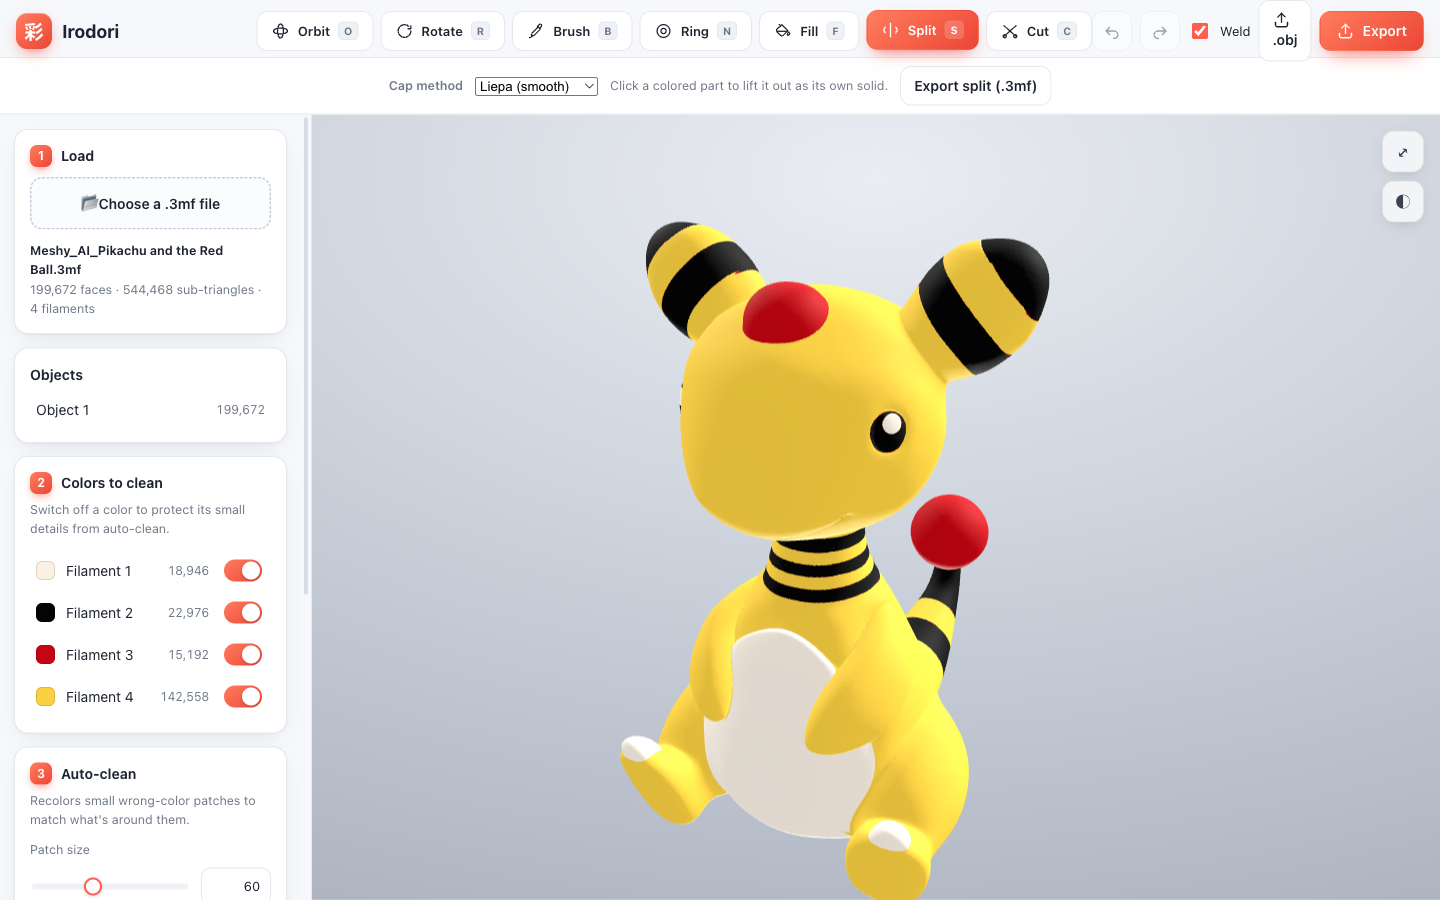
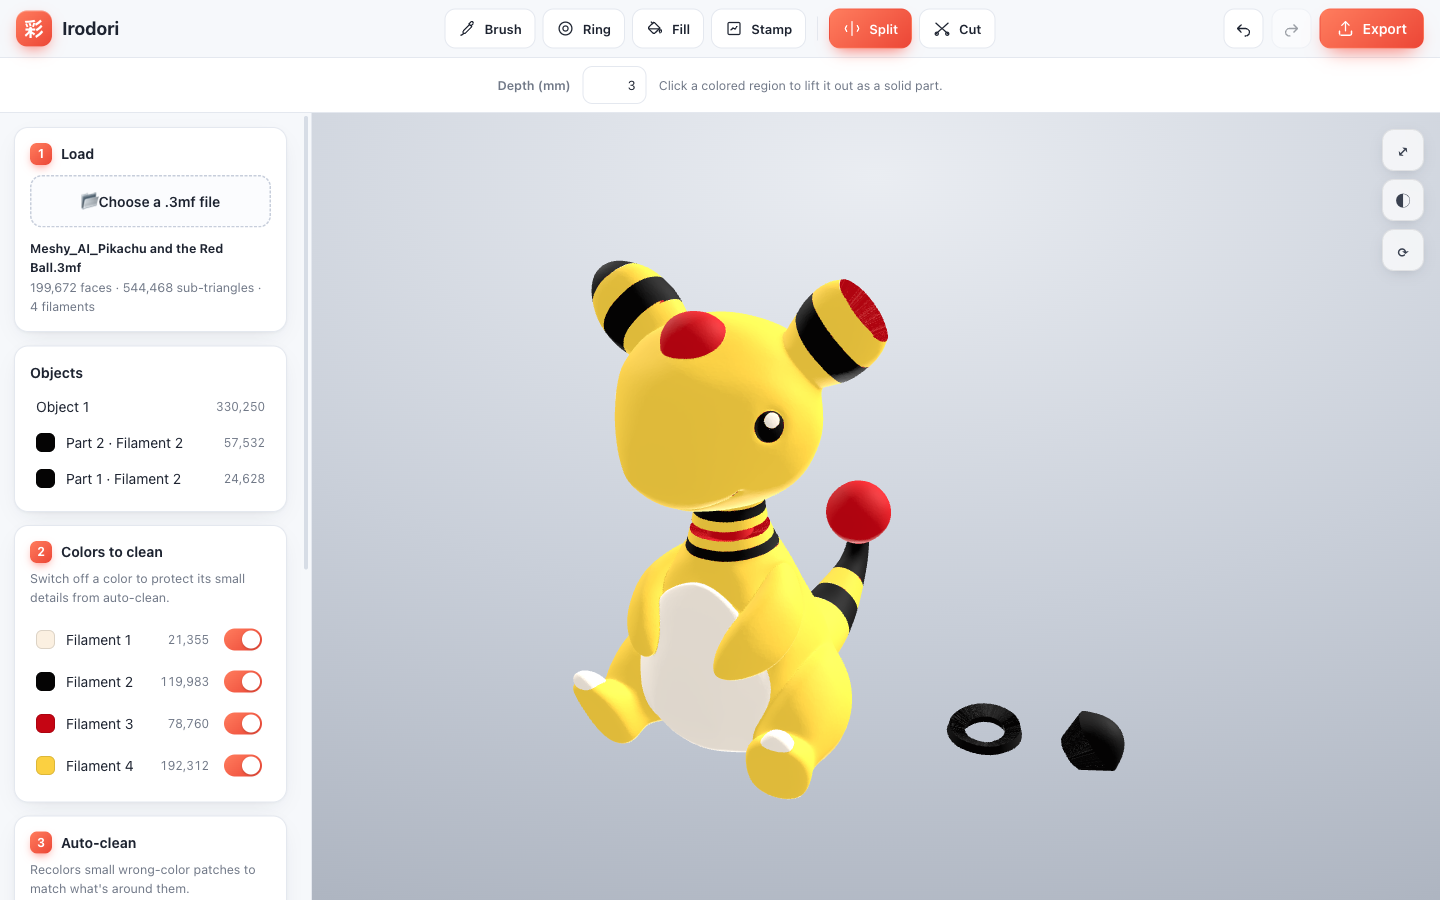
docs: align CLAUDE.md, README and the split spec with the code; fresh split screenshot
CLAUDE.md: the split.js depth rule (smooth field D, τ ramp, Lipschitz
envelope), affected-faces output, capped contact tolerance, wrap info; the
closed check vs signed volume. README: meshgeo.js in the module graph and
table, grammar fix, wrap note, new screenshot (depth panel + real ring and
ear-tip parts). Spec: status, no Cap method/opts.method, nearest-hit
inside test, depth input as built, partSeq/partLabel naming, the
affected-faces rule and the wrap warning.

diff --git a/docs/superpowers/specs/2026-10-13-volumetric-split-design.md b/docs/superpowers/specs/2026-10-13-volumetric-split-design.md
@@ -1,7 +1,7 @@
 # Volumetric Split — design
 
 **Date:** 2026-10-13
-**Status:** Approved in conversation; awaiting written-spec review.
+**Status:** Implemented on feat/volumetric-split; semantics (cup/liner/ring) pending user sign-off.
 
 ## Problem
 
@@ -44,16 +44,17 @@ so every other tool (paint, Cut, Split again) works on them unchanged.
   offset + Liepa cap of the offset loop + a `t = 0` "shell" fallback + pinch
   refusal) refused *every* region of the sample model. The bottom is now the
   **displaced patch** ("skin") on a spatially smooth displacement field; see
-  *Why not a cap* below. The `Cap method` dropdown no longer affects Split
-  (`opts.method` is accepted and ignored).
+  *Why not a cap* below.
 
 ## Geometry — `Split.plugSolids(mesh, subs, opts)` (js/split.js)
 
 `opts = { depth }`. Returns `{ part, remainder, info }` — two document
 meshes `{ positions, nf, v1, v2, v3, paints }` (the app sets
-`part.part = { label, state }`)
+`part.part = { seq, state }`)
 — or `{ error }` with a user-facing reason. `info = { halvings, shell:
-false, faces }` (`shell` is kept for the app's toast and is always false).
+false, faces, euler, specks, wraps, affectedFaces }` (`shell` is kept for
+the app's toast and is always false; `euler`/`specks`/`wraps`, see *Parts
+that wrap around*; `affectedFaces` only on success).
 
 ### Shared conformed surface
 
@@ -62,6 +63,28 @@ Both meshes come from one conformed surface of every sub-triangle
 triangles; a sub whose edges carry T-junction midpoints is fanned from its
 centroid, which gets its own id). Patch and remainder index the same ids, so
 the rim is welded by construction. No boundary loops are extracted.
+
+**Affected faces only.** The conformed triangles are emitted only for the
+*affected* faces: the region's faces plus, transitively, every face sharing
+an edge that carries a T-junction midpoint (`g.midOf(u, v) >= 0`) with an
+affected face, until closure. The closure's boundary edges carry no midpoint
+on either side, so no T-junction is left. Every other face of the remainder
+is its **original triangle** with its **original `paint_color` string**
+(paint trees outside the region are preserved, not flattened). Its corners
+keep their original vertex ids, except vertices shared with an affected
+face, which take the welded sub-graph id (`g.vid`) so both sides weld.
+Welding every vertex by coordinate would merge coincident vertices that an
+earlier split deliberately kept apart (the per-wedge pinch copies), and
+chained splits on that remainder would fail. Measured on the sample at
+depth 3:
+
+| region | affected faces | remainder triangles (before → after) | export, deflated (before → after) |
+|---|---|---|---|
+| ear tip | 2,685 | 899,824 → 226,150 | 10.45 → 2.95 MB |
+| belly | 17,213 | 929,344 → 358,654 | 12.65 → 6.26 MB |
+
+The remainder must still carry the pocket (the plug's own skin and wall
+triangles: 108,835 for the belly), so it grows by about that much.
 
 ### Displacement field (`plugField`, exported for tests as `Split.plugField`)
 
@@ -141,7 +164,9 @@ remainder). Wall and skin: the part's state in the part;
     (`MeshGeo.foldedPair`); vertex-adjacent → the far edge of one piercing the
     other (`MeshGeo.segTriCross`). Other pairs: Möller (`triTriIntersect`,
     scale-relative on-plane epsilon).
-  - **Contact rule** (`tol = 10⁻³·diag`, ≈ 0.06 mm on the sample): decided on
+  - **Contact rule** (`tol = min(10⁻³·diag, 0.05 mm)`; 0.05 mm on the
+    63 mm sample. Print tolerances are absolute, and 0.05 mm is below a
+    nozzle width): decided on
     the crossing, not on triangle size. The plug depth of a new triangle at a
     point is its vertices' depths (0 on the surface) interpolated
     barycentrically. A crossing whose points (`MeshGeo.crossPoints`: the
@@ -153,7 +178,8 @@ remainder). Wall and skin: the part's state in the part;
   - On any crossing: halve the scale and rebuild, up to 4 times; then
     refuse. No shell fallback.
   - The sample-model test checks the result *independently* of these rules:
-    every plug vertex inside the original solid (ray parity) and zero
+    every plug vertex inside the original solid (the nearest hit along a ray
+    is a back face, majority of three directions) and zero
     tol-free crossings with original faces not incident to a triangle's own
     surface vertices.
 - **Watertight gate** on both outputs (unchanged): `MeshGeo.checkClosed === 0`
@@ -170,27 +196,50 @@ remainder). Wall and skin: the part's state in the part;
   `snap = 10⁻⁴·diag` (≈ 0.006 mm). Un-welded vertices (pinch-line fix) step
   `snap` along their own inward vertex normal, not along `D`.
 
+### Parts that wrap around
+
+A rigid part whose patch is not a disc can't be slid into its pocket. Two
+cases: a band around the model (the neck stripe becomes a ring), and a
+region with a real hole. `plugSolids` computes the Euler characteristic
+χ = V − E + F of the region's conformed triangles, counting pinch vertices
+once per wedge (`info.euler`). Real rims enclose tiny unpainted specks
+(0.001–0.024 mm² on the sample), which are holes topologically but never
+block assembly. Complement components under 1 % of the region's area are
+therefore filled before the test (`info.specks`). `info.wraps = χ ≠ 1`
+after filling. Sample: ear tip χ = −1 with 2 specks → no wrap; belly χ = 0
+with 1 speck → no wrap; neck band χ = −3 with 10 specks → wraps. The split
+is still applied, and the app only warns. Pocket liners can have undercuts
+for the same reason (inward directions diverge); that is not detected.
+
 ## Tool flow (js/app.js, index.html)
 
 - Hover: existing same-color region tint (no `claimed` exclusion any more).
-- Click: `Split.plugSolids(mesh, subs, { depth, method })` under `busy`;
+- Click: `Split.plugSolids(mesh, subs, { depth })` under `busy`;
   on success replace `doc.meshes[i]` with `[remainder, part]`, set
   `doc.synthetic = true`, `pushHistory("Split")`, rebuild, `buildObjects`,
   `ensureSubGraphs`. On `{ error }`: toast, no history entry.
-- Panel: `Depth` — `<input type=number id="splitDepth">` (mm, step 0.1)
-  linked to a range; default 3, min 0.3, max `modelSize / 2` (set on load).
-  Existing `Cap method` select stays (app.js still passes it) but, since
-  task 6, Split ignores it — the bottom is the skin, not a cap; the select
-  is now dead UI for Split (follow-up: hide or relabel it). Hint text: *"Click a colored region to lift
-  it out as a solid part."*
+- Panel: `Depth` — `<input type=number id="splitDepth" min="0" step="0.1">`
+  (mm; no range slider); default 3, `max = modelSize / 2` set on load (not
+  enforced on typed values; the half-thickness clamp applies). Depth ≤ 0
+  (or empty/NaN) is refused with *"Set a split depth greater than 0"*.
+  Hint text: *"Click a colored region to lift it out as a solid part."*
+- Success toast: *"Split out Part N · Filament K"*, plus *" — wraps around
+  the model; it can't be slid into place without cutting"* when
+  `info.wraps`.
 - Removed guards: *"Export or undo your split parts before cutting"* and the
   export dialog's dependence on `splitParts`.
 
 ## Viewer and layout (js/viewer.js)
 
-- `mesh.part = { label, state }`; `label = "Part N · <color name>"` assigned at
-  split time (N = count of part meshes + 1). Cut halves copy `part` from
-  their source so a cut part stays a part.
+- `mesh.part = { seq, state }`. `seq` is a monotonic per-document counter
+  (`partSeq`). It resets on load and is not rolled back on undo. The name
+  `"Part <seq> · <color name>"` is derived from the CURRENT `state` by
+  `partLabel` in app.js, both for the Objects list and for export (via
+  `ThreeMF.exportZip(doc, { nameOf })`). Deleting a colour therefore can't
+  leave a stale name: delete-color replaces each `m.part` with a remapped
+  copy. History snapshots carry `part` per mesh, because snapshots share
+  mesh objects and `part` must never be mutated in place. Cut halves copy
+  `part` from their source, so a cut part stays a part.
 - **Display-only row layout:** `Viewer.build` computes, for meshes with
   `part`, a per-mesh offset from the existing `Split.layoutParts(bodyBox,
   partBoxes, margin)` where `bodyBox` is the union AABB of non-part meshes,

diff --git a/CLAUDE.md b/CLAUDE.md
@@ -14,7 +14,7 @@ graph. Keep it that way (no bundler/ESM migration).
   modules and produces phantom "X is not a function" errors.
 - **Tests:** `npm test` (= `node --test`). Node's built-in runner;
   `tests/harness.js` loads the browser IIFEs into a `vm` sandbox (with
-  vendored three.js + poly2tri) and returns the globals. 93 tests.
+  vendored three.js + poly2tri) and returns the globals. 98 tests.
 
 ## Hard rules
 
@@ -44,13 +44,21 @@ graph. Keep it that way (no bundler/ESM migration).
 - `meshgeo.js` — pure geometry: cached bounds, directed closed-surface check,
   Möller tri–tri test, face grid + inward ray cast (`rayHit`, back-face only).
 - `split.js` — volumetric split: `plugSolids(mesh, subs, {depth})` →
-  `{ part, remainder }` as real document meshes. The part is a skin plug: top =
-  the painted patch, bottom = a displaced copy of the patch on a smooth depth
-  field (`min(depth, ½·t_hit) · |cos θ|`), one wall quad per rim edge. The
-  remainder gets the reversed wall/bottom (matching pocket). Gate: closed +
-  positive volume + triangle-intersection check; otherwise the split is
-  refused with an error. Parts carry `mesh.part = { label, state }`; the viewer
-  lays them out in a row (display-only offsets), export stays coincident.
+  `{ part, remainder, info }` as real document meshes. The part is a skin
+  plug: top = the painted patch, bottom = the patch displaced along a
+  spatially smooth inward field D (kernel-smoothed patch normal) by
+  s = min(depth, ½·thickness along D) · τ — τ the transversality ramp of D
+  against every incident sub — then a geodesic Lipschitz envelope (slope ≤
+  0.5) so the skin cannot fold; one wall quad per rim edge. The remainder
+  gets the reversed wall/skin (matching pocket). Only the AFFECTED faces
+  (region + T-junction closure) are re-triangulated; every other face keeps
+  its original triangle, vertex ids and `paint_color`. Gate: toleranced
+  intersection test (contact tol = min(1e-3·diag, 0.05 mm)), then closed +
+  positive volume; otherwise refused. `info.wraps` (patch Euler
+  characteristic ≠ 1 after filling paint specks) drives the "wraps around"
+  warning. Parts carry `mesh.part = { seq, state }`; the name is derived by
+  `partLabel` in app.js. The viewer lays parts out in a row (display-only
+  offsets), export stays coincident.
 - `planecut.js` — geometric plane cut (`cutMesh`): exact triangle clipping
   with per-edge welded section points, section chords from clipped triangles
   AND from on-plane mesh edges, flat earcut caps wound ±n. Cutting sets
@@ -67,7 +75,8 @@ casually.
 
 - Paint "states" = filament indices; state 0 = the object's default extruder.
 - Watertightness in tests = every undirected edge used exactly twice — this is
-  **winding-blind**; winding is covered by the signed-volume checks (`MeshGeo.checkClosed`).
+  **winding-blind**. `MeshGeo.checkClosed` is the directed (winding-aware)
+  closed test; `MeshGeo.signedVolume` > 0 checks the orientation.
 - Mirror/symmetry centers derive from sub-centroid bounds (`axisCenters`) —
   live previews (`mirrorMap`) and final stamp reflection must agree.
 - Verification screenshots (`*.jpeg`) and `.playwright-mcp/` are disposable

diff --git a/README.md b/README.md
@@ -76,7 +76,9 @@ as **genuine sliceable filaments**, and every add/delete is undoable.
 Lift any connected colored region out as its own **watertight solid plug** with a
 depth in mm; the remainder gets the matching pocket. Export every part **plus the
 remainder** as separate objects in a single `.3mf` — the cut surfaces stay
-perfectly coincident.
+perfectly coincident. Paint outside the split region is kept exactly as it was.
+If a part wraps around the model (a stripe or ring), Irodori warns you that it
+can't be slid back into place.
 
 ![Split tool](docs/assets/screenshot-split.png)
 
@@ -127,7 +129,7 @@ python3 -m http.server 8000
 > caching will happily serve stale modules and produce phantom
 > "X is not a function" errors.
 
-Run the tests (Node's built-in runner, **93 tests**):
+Run the tests (Node's built-in runner, **98 tests**):
 
 ```bash
 npm test
@@ -149,6 +151,7 @@ graph TD
     subgraph_["subgraph.js<br/><i>sub-triangle adjacency</i>"]
     select["select.js<br/><i>selections · symmetry</i>"]
     cleanup["cleanup.js<br/><i>paint mutations</i>"]
+    meshgeo["meshgeo.js<br/><i>closed check · tri–tri · ray cast</i>"]
     split["split.js<br/><i>watertight solids</i>"]
     planecut["planecut.js<br/><i>geometric plane cut</i>"]
     viewer["viewer.js<br/><i>three.js scene · picking</i>"]
@@ -158,6 +161,8 @@ graph TD
     paint --> subgraph_
     subgraph_ --> select --> cleanup
     paint --> split
+    meshgeo --> split
+    meshgeo --> viewer
     paint --> planecut
     threemf --> viewer
     cleanup --> app
@@ -172,7 +177,8 @@ graph TD
 | `paint.js` | Bambu `paint_color` codec; `Paint.tessellate` is **the** geometry convention every subdivision must match. |
 | `threemf.js` | `.3mf` zip load/export, multi-mesh round-trip, filament normalization. |
 | `subgraph.js` / `select.js` / `cleanup.js` | The `Cleanup` namespace: cached sub-triangle adjacency, read-only selections + symmetry, and paint-mutating ops. |
-| `split.js` | Solid plugs from sub-triangle sets (displaced-patch bottom, wall per rim edge); the remainder gets the matching pocket. |
+| `meshgeo.js` | Pure geometry: bounds, directed closed-surface check, signed volume, Möller tri–tri test, face grid + ray cast. |
+| `split.js` | Solid plugs from sub-triangle sets (displaced-patch bottom, wall per rim edge); the remainder gets the matching pocket, and only the faces around the region are re-triangulated. |
 | `planecut.js` | Exact triangle clipping with welded section points and flat earcut caps. |
 | `viewer.js` | three.js scene, picking, row layout of parts, preview tints. |
 | `app.js` | UI glue: tools, palette, history (snapshot/undo), panels. |
@@ -180,7 +186,7 @@ graph TD
 A test harness (`tests/harness.js`) loads these browser IIFEs into a Node `vm`
 sandbox with vendored three.js + poly2tri, so the pure geometry is testable
 headlessly. Watertightness is asserted as *every undirected edge used exactly
-twice*; winding is covered by an signed-volume checks.
+twice*; winding is covered by the directed closed check and signed-volume checks.
 
 ---
 
